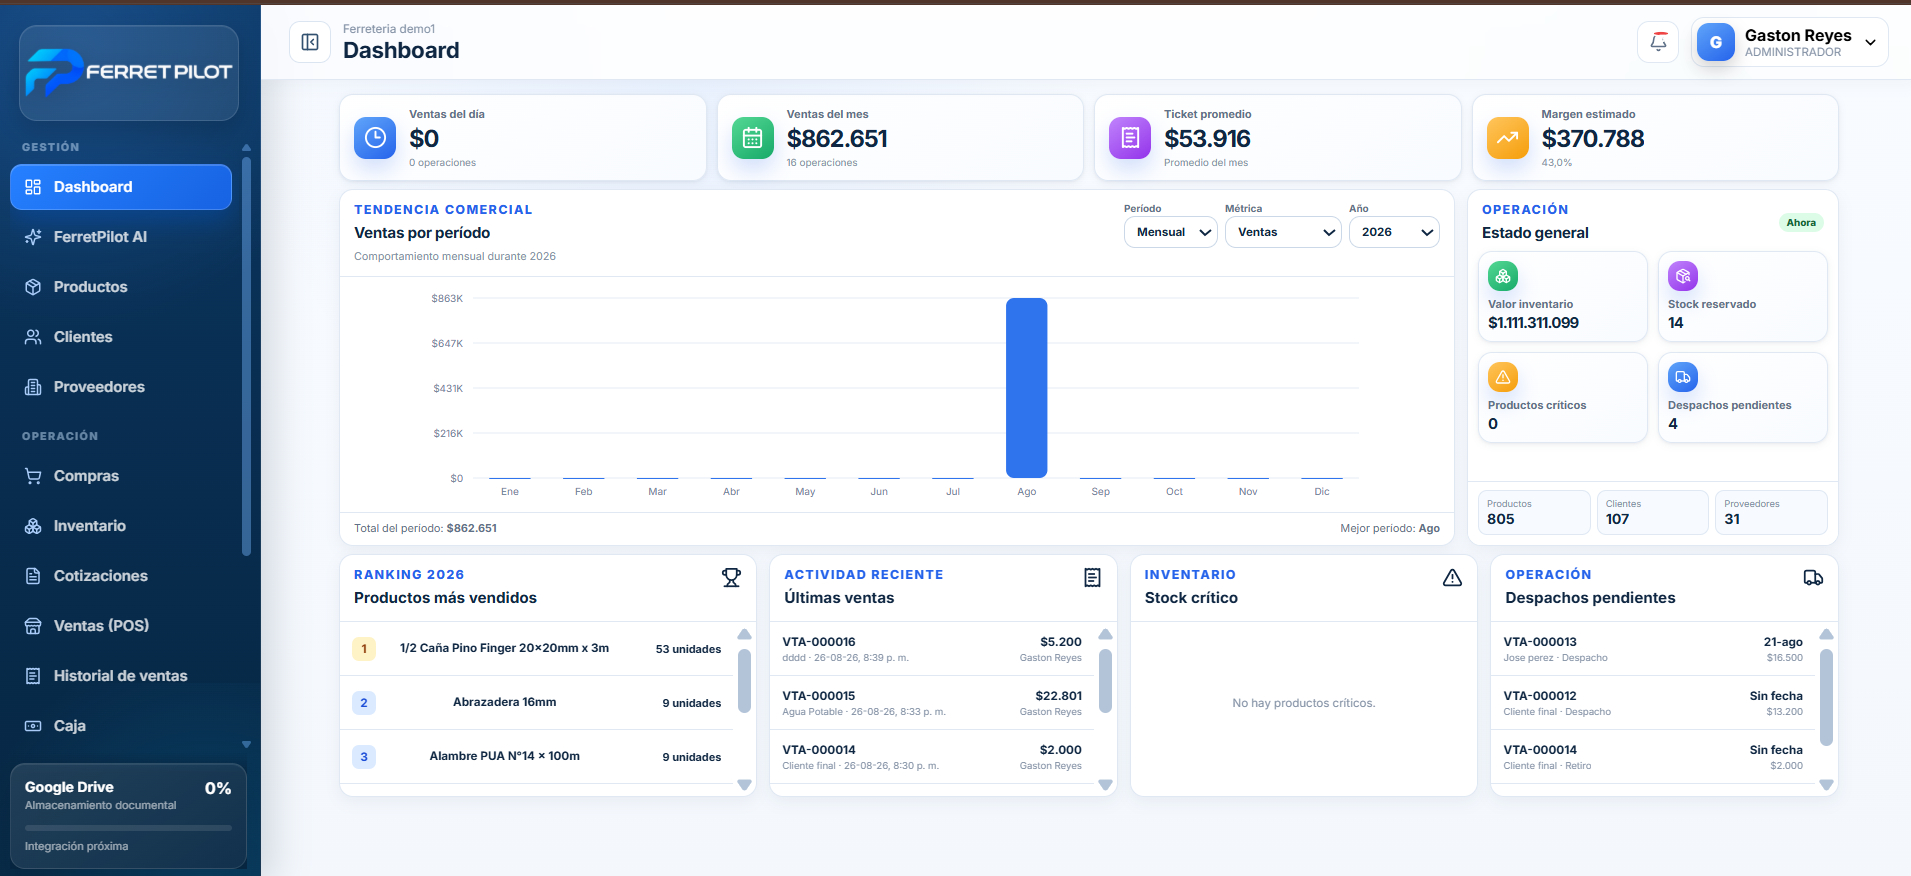
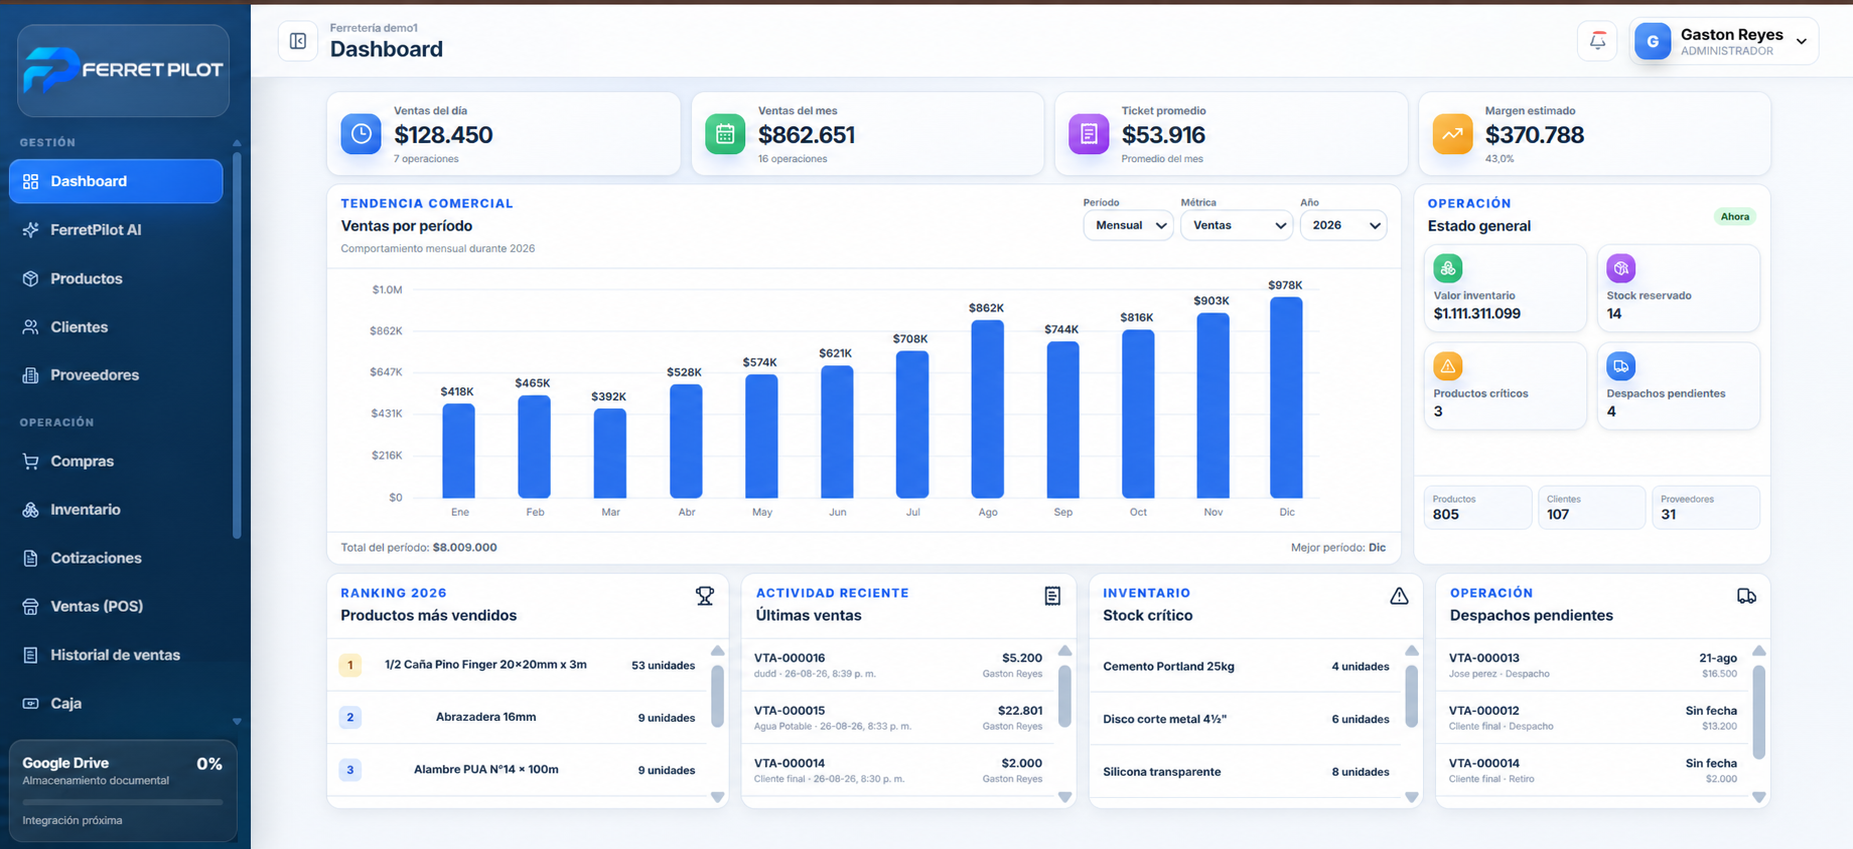
Update FerretPilot dashboard screenshot

diff --git a/productos/ferretpilot/index.html b/productos/ferretpilot/index.html
@@ -1,6 +1,6 @@
 <!doctype html><html lang="es"><head><meta charset="utf-8"><meta name="viewport" content="width=device-width,initial-scale=1"><title>FerretPilot | ERP inteligente para ferreterías</title><meta name="description" content="FerretPilot integra ventas POS, inventario, compras, clientes, proveedores y análisis con inteligencia artificial para ferreterías."><meta name="theme-color" content="#1769ff"><meta property="og:title" content="FerretPilot | Tu ferretería bajo control"><meta property="og:description" content="Gestión e inteligencia para ferreterías en una sola plataforma."><meta property="og:image" content="../../assets/ferretpilot/web-dashboard.png"><link rel="icon" href="../../favicon-32.png"><script>document.documentElement.classList.add('js')</script><link rel="stylesheet" href="ferretpilot.css?v=20260831-2"></head><body>
 <link rel="stylesheet" href="ferretpilot-responsive.css?v=20260831-1"><header class="header"><div class="container nav"><a href="/" aria-label="Volver a la página principal de ProdIntel"><img class="logo" src="../../assets/ferretpilot/logo-ferretpilot-header.png" alt="FerretPilot" width="1730" height="470"></a><a class="back" href="/">← Volver a ProdIntel</a><a class="btn btn-primary" href="https://wa.me/56984391753" target="_blank" rel="noopener noreferrer">Solicitar demo</a></div></header>
-<main><section class="hero"><div class="container hero-grid"><div class="hero-copy reveal"><p class="eyebrow">ERP + inteligencia para ferreterías</p><h1>Tu ferretería, bajo control.</h1><p class="lead">Ventas, inventario, compras, clientes, proveedores y operación diaria integrados en una plataforma creada específicamente para el negocio ferretero.</p><div class="actions"><a class="btn btn-primary" href="https://ferretpilot.prodintel.cl" target="_blank" rel="noopener noreferrer">Ver la plataforma</a><a class="btn btn-light" href="https://wa.me/56984391753" target="_blank" rel="noopener noreferrer">Agendar demostración</a></div></div><div class="hero-shot reveal"><img src="../../assets/ferretpilot/web-dashboard.png" alt="Dashboard real de FerretPilot" width="1911" height="876" fetchpriority="high"></div></div></section>
+<main><section class="hero"><div class="container hero-grid"><div class="hero-copy reveal"><p class="eyebrow">ERP + inteligencia para ferreterías</p><h1>Tu ferretería, bajo control.</h1><p class="lead">Ventas, inventario, compras, clientes, proveedores y operación diaria integrados en una plataforma creada específicamente para el negocio ferretero.</p><div class="actions"><a class="btn btn-primary" href="https://ferretpilot.prodintel.cl" target="_blank" rel="noopener noreferrer">Ver la plataforma</a><a class="btn btn-light" href="https://wa.me/56984391753" target="_blank" rel="noopener noreferrer">Agendar demostración</a></div></div><div class="hero-shot reveal"><img src="../../assets/ferretpilot/dashboard.png" alt="Dashboard real de FerretPilot" width="1853" height="849" fetchpriority="high" decoding="async"></div></div></section>
 <section class="proof"><div class="container proof-row"><div class="proof-item">Ventas POS<span>Operación comercial integrada</span></div><div class="proof-item">Inventario<span>Stock, costos y movimientos</span></div><div class="proof-item">Compras<span>Abastecimiento y proveedores</span></div><div class="proof-item">FerretPilot AI<span>Análisis sobre datos del negocio</span></div></div></section>
 <section class="section" id="producto"><div class="container"><header class="section-head"><p class="eyebrow">Una plataforma, toda la operación</p><h2>Diseñado alrededor de cómo funciona una ferretería.</h2><p>FerretPilot centraliza los procesos que normalmente viven en planillas, sistemas separados y controles manuales.</p></header><div class="feature-grid"><article class="feature"><b>01</b><h3>Ventas y POS</h3><p>Venta rápida, medios de pago, cotizaciones, historial y gestión de despachos.</p></article><article class="feature"><b>02</b><h3>Productos e inventario</h3><p>Stock, categorías, costos, precios, márgenes, reservas y productos críticos.</p></article><article class="feature"><b>03</b><h3>Compras</h3><p>Proveedores, abastecimiento, recepción y trazabilidad de las compras.</p></article><article class="feature"><b>04</b><h3>Clientes y crédito</h3><p>Cartera, cuentas por cobrar, comportamiento comercial y seguimiento.</p></article><article class="feature"><b>05</b><h3>Caja y finanzas</h3><p>Control de caja, pagos, cuentas por pagar y visibilidad financiera.</p></article><article class="feature"><b>AI</b><h3>Agente inteligente</h3><p>Consultas sobre ventas, stock, cobranza, clientes, precios y márgenes.</p></article></div></div></section>
 <section class="section soft"><div class="container"><header class="section-head"><p class="eyebrow">Producto real</p><h2>Conoce FerretPilot en operación.</h2><p>Interfaces reales de la plataforma, diseñadas para entregar claridad incluso en las jornadas de mayor movimiento.</p></header><div class="gallery"><div class="screen-row reveal"><div class="screen-frame"><img loading="lazy" src="../../assets/ferretpilot/web-productos.png" alt="Módulo real de productos FerretPilot" width="1914" height="871"></div><div class="screen-copy"><span>Catálogo e inventario</span><h3>Todo el catálogo en una vista.</h3><p>Busca productos, revisa costos, precios, márgenes y stock, y administra el catálogo sin perder contexto.</p></div></div><div class="screen-row reveal"><div class="screen-frame"><img loading="lazy" src="../../assets/ferretpilot/web-pos.png" alt="Punto de venta real FerretPilot" width="1905" height="867"></div><div class="screen-copy"><span>Ventas POS</span><h3>Una venta clara de principio a fin.</h3><p>Gestiona cliente, entrega, pago, productos y totales en un flujo comercial rápido y consistente.</p></div></div></div></div></section><section class="section dark"><div class="container ai-grid"><div class="reveal"><p class="eyebrow">FerretPilot AI</p><h2>Pregunta. Analiza. Decide.</h2><p>Un agente especializado consulta los datos reales de la ferretería para identificar productos que requieren atención, revisar ventas, analizar márgenes y apoyar la cobranza. Analiza y recomienda; el usuario mantiene el control.</p></div><div class="screen-frame ai-screen reveal"><img loading="lazy" src="../../assets/ferretpilot/web-ai.png" alt="Agente inteligente real de FerretPilot" width="1911" height="877"></div></div></section><section class="section"><div class="container"><header class="section-head"><p class="eyebrow">Implementación real</p><h2>De controles dispersos a una operación conectada.</h2><p>Primer caso implementado en una ferretería chilena. La identidad comercial se mantiene confidencial hasta contar con autorización de publicación.</p></header><article class="case reveal"><div><span class="eyebrow">Caso de implementación</span><h3>Gestión ferretera centralizada</h3><p>El proyecto abordó la necesidad de integrar información comercial, inventario y operación diaria en una plataforma única.</p><p class="disclaimer">No se publican porcentajes ni resultados económicos sin validación y autorización del cliente.</p></div><div class="case-flow"><div class="case-step"><strong>01 · DESAFÍO</strong><b>Información dispersa</b><span>Procesos y datos operacionales separados, con baja trazabilidad.</span></div><div class="case-step"><strong>02 · SOLUCIÓN</strong><b>FerretPilot</b><span>Ventas, productos, compras, cartera y gestión conectados.</span></div><div class="case-step"><strong>03 · CAPACIDAD</strong><b>Decisiones con contexto</b><span>Dashboard y agente IA para consultar la información del negocio.</span></div></div></article></div></section>
